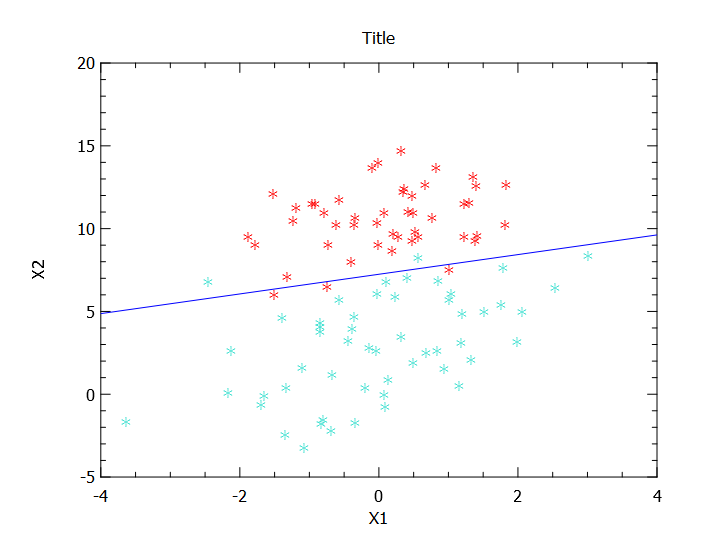
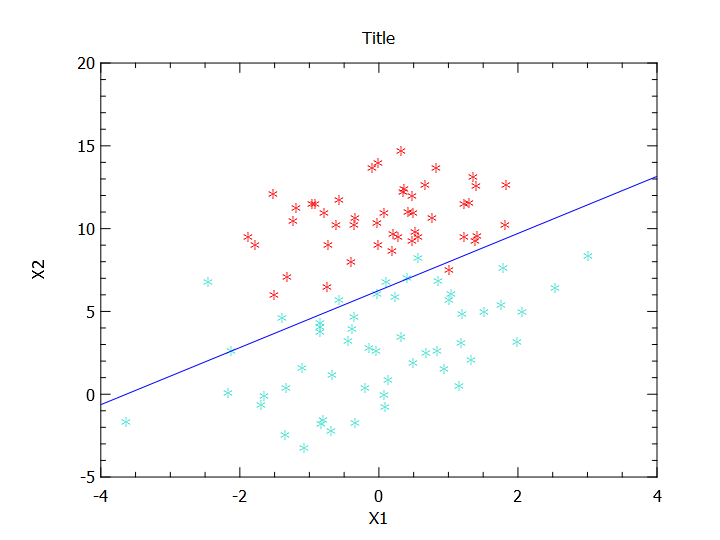
update the test code and delete useless code

diff --git a/ML In Action/Logistic/Program.cs b/ML In Action/Logistic/Program.cs
@@ -42,10 +42,6 @@ namespace Logistic
             string nextLine;
             while ((nextLine = sR.ReadLine()) != null)
             {
-                if (i == 99)
-                {
-                    Console.WriteLine();
-                }
                 string[] data = nextLine.Split('\t');
                 ap[i] = new model1()
                 {
@@ -85,7 +81,7 @@ namespace Logistic
             const int xMax = 4;
             const int yMin = -5;
             const int yMax = 20;
-            pl.env(xMin, xMax, yMin, yMax, AxesScale.Independent, AxisBox.CustomXYBoxTicksLabels);
+            pl.env(xMin, xMax, yMin, yMax, AxesScale.Independent, AxisBox.BoxTicksLabels);
             // Set scaling for mail title text 125% size of default
             pl.lab("X1", "X2", "Title");
             pl.col0(3);
@@ -147,12 +143,23 @@ namespace Logistic
             var Y1 = data.Where(p => p.Lable == 0).Select(p => p.X2).ToArray();
             var X2 = data.Where(p => p.Lable == 1).Select(p => p.X1).ToArray();
             var Y2 = data.Where(p => p.Lable == 1).Select(p => p.X2).ToArray();
-            double alpha = 0.01;
+            // you can change the MaxCircle,alpha or first weight 
+            int maxCircle = 50;
+            double alpha = 0.001;
             double[] weight = new double[3] { 1.78, 0.34, 4 };
-            weight = p.GradAscent(data, alpha, weight, 50000);
+            weight = p.GradAscent(data, alpha, weight, maxCircle);
+            int wrong = 0;
+            for (int i = 0; i < data.Length; i++)
+            {
+                var Lable = data[i].X1 * weight[0] + data[i].X2 * weight[1] + weight[2] >= 0.5 ? 1 : 0;
+                if (data[i].Lable != Lable)
+                {
+                    wrong++;
+                }
+            }
             var line = p.InitLine(weight);
             p.Graph(args, X1, Y1, X2, Y2, line.Item1, line.Item2);
-            Console.WriteLine();
+            Console.WriteLine("The Predicate Correct Rate is {0}%",((double)(data.Length-wrong)/data.Length)*100);
         }
     }
 }
